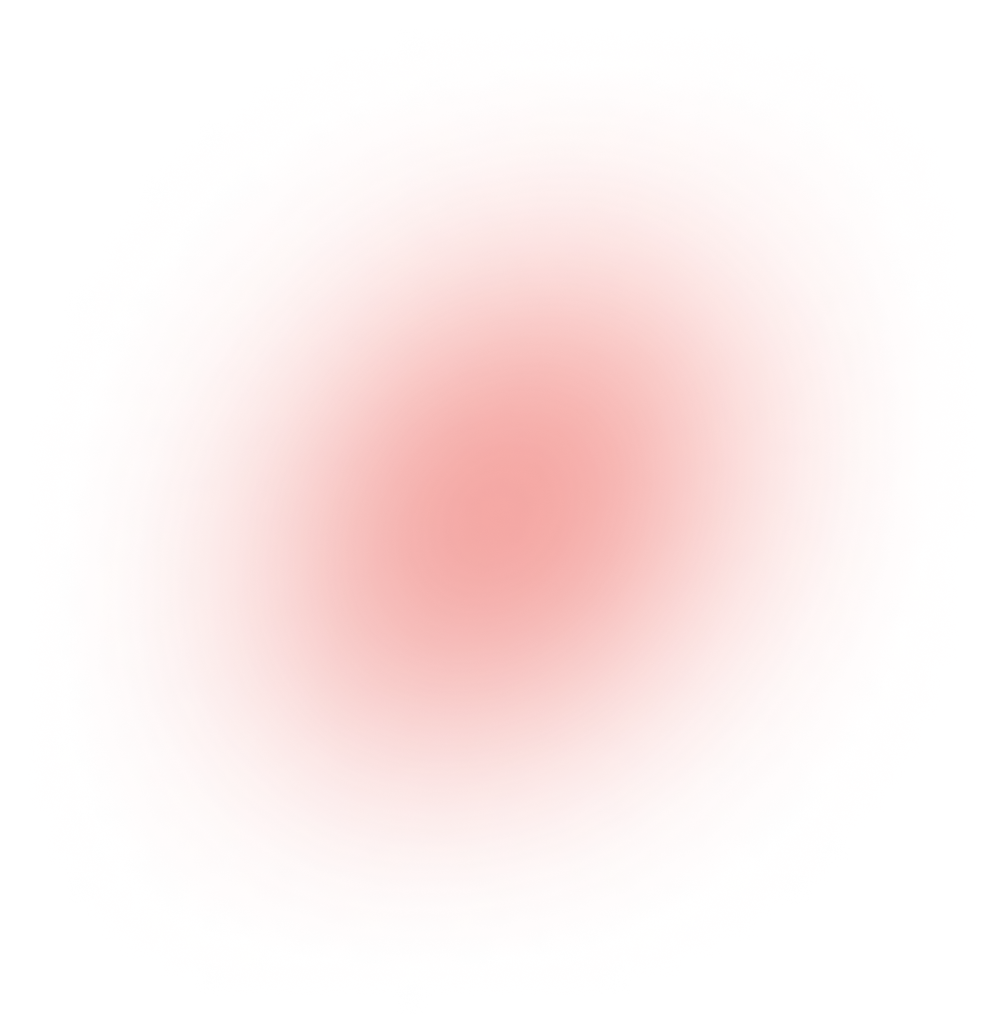
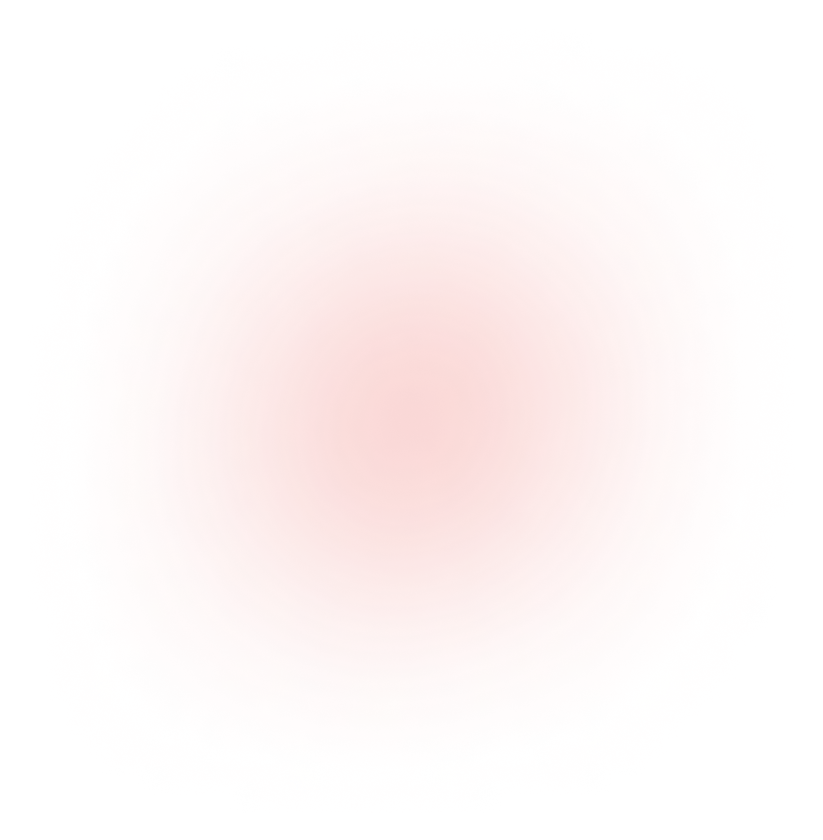
Исправляет недочеты

Changed region(s): [[0.2734, 0.2786, 0.729, 0.7119]]

diff --git a/source/sass/blocks/swiper.scss b/source/sass/blocks/swiper.scss
@@ -9,10 +9,10 @@
     top: 50%;
     left: 50%;
     display: block;
-    width: 1000px;
-    height: 1000px;
+    width: 670px;
+    height: 670px;
     transform: translate(-50%, -50%);
-    filter: blur(114px);
+    background-position: center center;
     z-index: -1;
     transition: background-image 0.3s;
 
@@ -35,7 +35,7 @@
   }
 
   &:has(.swiper__item--current.product-card--first)::before{
-    background: variables.$shadow-png-first;
+    background: variables.$shadow-png-first center center no-repeat;
 
     @media (min-width: variables.$tablet-width) {
       background: variables.$shadow-first;
@@ -43,7 +43,7 @@
   }
 
   &:has(.swiper__item--current.product-card--second)::before{
-    background: variables.$shadow-png-second;
+    background: variables.$shadow-png-second center center no-repeat;
 
     @media (min-width: variables.$tablet-width) {
       background: variables.$shadow-second;
@@ -51,7 +51,7 @@
   }
 
   &:has(.swiper__item--current.product-card--third)::before{
-    background: variables.$shadow-png-third;
+    background: variables.$shadow-png-third center center no-repeat;
 
     @media (min-width: variables.$tablet-width) {
       background: variables.$shadow-third;
@@ -59,7 +59,7 @@
   }
 
   &:has(.swiper__item--current.product-card--fourth)::before{
-    background: variables.$shadow-png-fourth;
+    background: variables.$shadow-png-fourth center center no-repeat;
 
     @media (min-width: variables.$tablet-width) {
       background: variables.$shadow-fourth;
@@ -67,7 +67,7 @@
   }
 
   &:has(.swiper__item--current.product-card--fifth)::before{
-    background: variables.$shadow-png-fifth;
+    background: variables.$shadow-png-fifth center center no-repeat;
 
     @media (min-width: variables.$tablet-width) {
       background: variables.$shadow-fifth;
@@ -75,7 +75,7 @@
   }
 
   &:has(.swiper__item--current.product-card--sixth)::before{
-    background: variables.$shadow-png-sixth;
+    background: variables.$shadow-png-sixth center center no-repeat;
 
     @media (min-width: variables.$tablet-width) {
       background: variables.$shadow-sixth;
@@ -83,7 +83,7 @@
   }
 
   &:has(.swiper__item--current.product-card--seventh)::before{
-    background: variables.$shadow-png-seventh;
+    background: variables.$shadow-png-seventh center center no-repeat;
 
     @media (min-width: variables.$tablet-width) {
       background: variables.$shadow-seventh;

diff --git a/source/sass/blocks/product.scss b/source/sass/blocks/product.scss
@@ -4,6 +4,7 @@
 .product {
   padding-bottom: 64px;
   z-index: 0;
+  overflow-x: hidden;
 
   @media (min-width: variables.$tablet-width) {
     padding-bottom: 121px;

diff --git a/source/sass/blocks/main-header.scss b/source/sass/blocks/main-header.scss
@@ -11,6 +11,7 @@
 
   @media (min-width: variables.$tablet-width) {
     position: fixed;
+    width: 100%;
     min-height: 100px;
   }
 }
